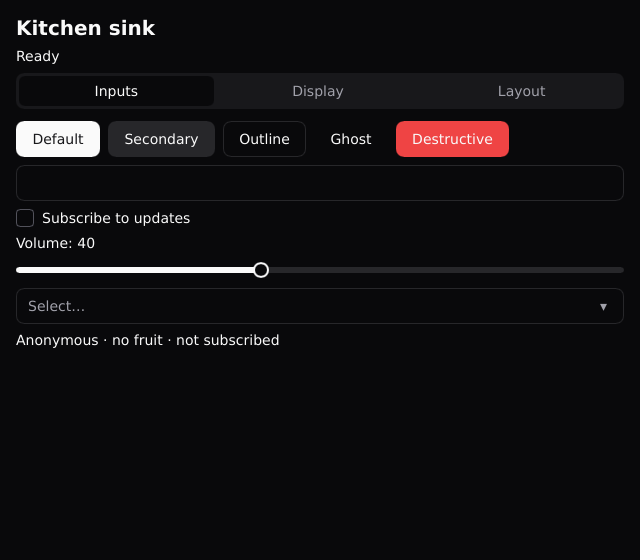
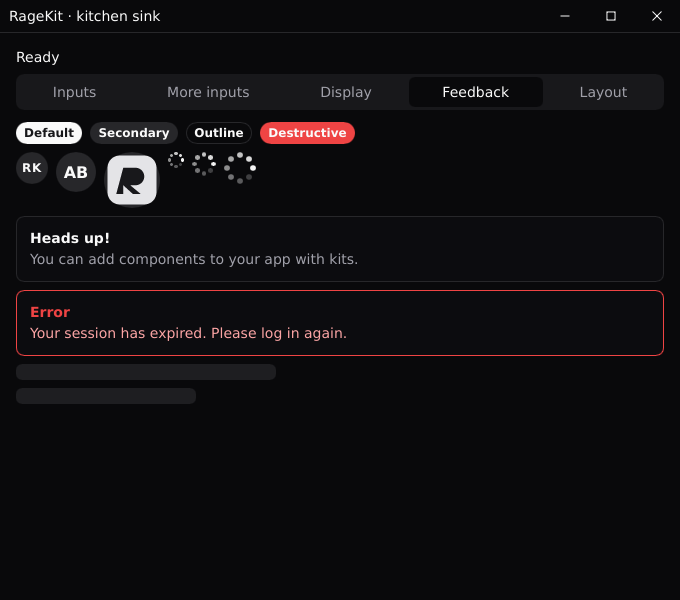
Kitchen sink: a title bar, the new elements, a new screenshot
Two new tabs (More inputs, Feedback) and its own title bar (a layout). An
e2e check opens every tab with both kits and expects the window to keep its
size.

diff --git a/demo/kitchen-sink/src/KitchenSinkScreen.php b/demo/kitchen-sink/src/KitchenSinkScreen.php
@@ -8,6 +8,7 @@ use RageKit\Screen;
 final class KitchenSinkScreen extends Screen
 {
     public const FRUITS = ['Apple', 'Banana', 'Cherry', 'Dragon fruit'];
+    public const SIZES = ['Small', 'Medium', 'Large'];
 
     public int $tab = 0;
     public string $status = 'Ready';
@@ -15,10 +16,25 @@ final class KitchenSinkScreen extends Screen
     public bool $subscribed = false;
     public float $volume = 40.0;
     public string $fruit = '';
+    public bool $notifications = true;
+    public string $notes = '';
+    public string $size = 'Medium';
+    public bool $bold = false;
 
     public static function template(): string
     {
         return 'templates/KitchenSink.rk';
+    }
+
+    public static function layout(): string
+    {
+        return KitchenSinkLayout::class;
+    }
+
+    public function preferences(): string
+    {
+        return $this->size . ' · ' . ($this->bold ? 'bold' : 'regular') . ' · notifications ' . ($this->notifications ? 'on' : 'off')
+            . ' · ' . strlen($this->notes) . ' characters of notes';
     }
 
     public function volumeText(): string

diff --git a/demo/kitchen-sink/src/KitchenSinkLayout.php b/demo/kitchen-sink/src/KitchenSinkLayout.php
@@ -1,0 +1,14 @@
+<?php
+
+namespace Demo;
+
+use RageKit\Layout;
+
+/** The window's own title bar (frameless window): drag it, double-click it, use its buttons. */
+final class KitchenSinkLayout extends Layout
+{
+    public static function template(): string
+    {
+        return 'templates/KitchenSinkLayout.rk';
+    }
+}

diff --git a/demo/kitchen-sink/main.php b/demo/kitchen-sink/main.php
@@ -6,6 +6,6 @@ use RageKit\App;
 function main(): void
 {
     $app = new App();
-    $app->open(new KitchenSinkScreen(), title: 'RageKit · kitchen sink', width: 640, height: 560);
+    $app->open(new KitchenSinkScreen(), title: 'RageKit · kitchen sink', width: 680, height: 600);
     $app->run();
 }

diff --git a/README.md b/README.md
@@ -10,7 +10,7 @@ PHP to machine code with [TypePHP](https://github.com/swoole/typephp), turns the
 composer create-project ragekit/starter myapp   # a new app, ready to build (see Get started)
 ```
 
-![The kitchen-sink demo with the shadcn kit](docs/images/kitchen-sink.png)
+![The kitchen-sink demo with the shadcn kit: its own title bar, badges, avatars, spinners, alerts and skeletons](docs/images/kitchen-sink.png)
 
 > **Status: experimental (0.x).** Linux is where it's built and tested. Windows works but is
 > tested less. macOS isn't supported yet: it hasn't been built or tested there. APIs will change.
@@ -158,7 +158,7 @@ On Windows, run `setup.ps1` instead of `setup.sh`.
 |---|---|
 | `demo/calculator` | logic in plain PHP, a keypad from a constant with `each` |
 | `demo/counter-slint` | state, two-way input, a child component, a second window |
-| `demo/kitchen-sink` | every core element, in three tabs (`--kit=material` to compare kits) |
+| `demo/kitchen-sink` | every core element, in five tabs, with its own title bar (`--kit=material` to compare kits) |
 | `demo/kit-demo` | an app's own kit (`kits/icons`) with SVG icons embedded at build time |
 | `demo/player` | the audio module: play, pause, progress, volume |
 | `demo/titlebar` | a layout: frameless window, own title bar with a search box and window buttons |

diff --git a/CHANGELOG.md b/CHANGELOG.md
@@ -17,6 +17,9 @@ require the RageKit minor version they were written for, e.g. `"ragekit/ragekit"
   (`RageKit\Http\Http::get($url)->send(fn (Response $r) => …)`), with headers, bodies, timeouts,
   downloads to a file with progress, and cancelling. Works in Nano builds. Linux uses libcurl
   (building needs `libcurl4-openssl-dev`), Windows WinHTTP. Example: `demo/fetch`.
+- Core elements `Switch`, `Textarea`, `RadioGroup`, `Toggle`, `Badge`, `Avatar`, `Alert`,
+  `Skeleton` and `Spinner`, in the shadcn and Material kits. `demo/kitchen-sink` shows them in two
+  new tabs and has its own title bar.
 - Layouts: `RageKit\Layout` frames screens that name it in `layout()`, with its own template
   (`<Content />` marks the screen), state and handlers, and a context interface the screens
   implement (`{context.title}`). Such windows are frameless: `<WindowDrag>` moves the window

diff --git a/tests/e2e/README.md b/tests/e2e/README.md
@@ -4,6 +4,9 @@
 
     DISPLAY=:99 tests/e2e/demos.sh            # extra arguments go to ragekit build, e.g. --nano
 
+`tests/e2e/kitchen-sink.sh` opens every tab of `demo/kitchen-sink` and checks the window keeps its
+size (an element that caps a column's width shrinks the window); `--kit=material` for the other kit.
+
 `tests/e2e/titlebar.sh` drives `demo/titlebar` (a layout): drags the bar, resizes from a corner
 (on X11 the app moves and resizes its window itself), clicks a button inside the bar, closes with
 the window's own close button:
